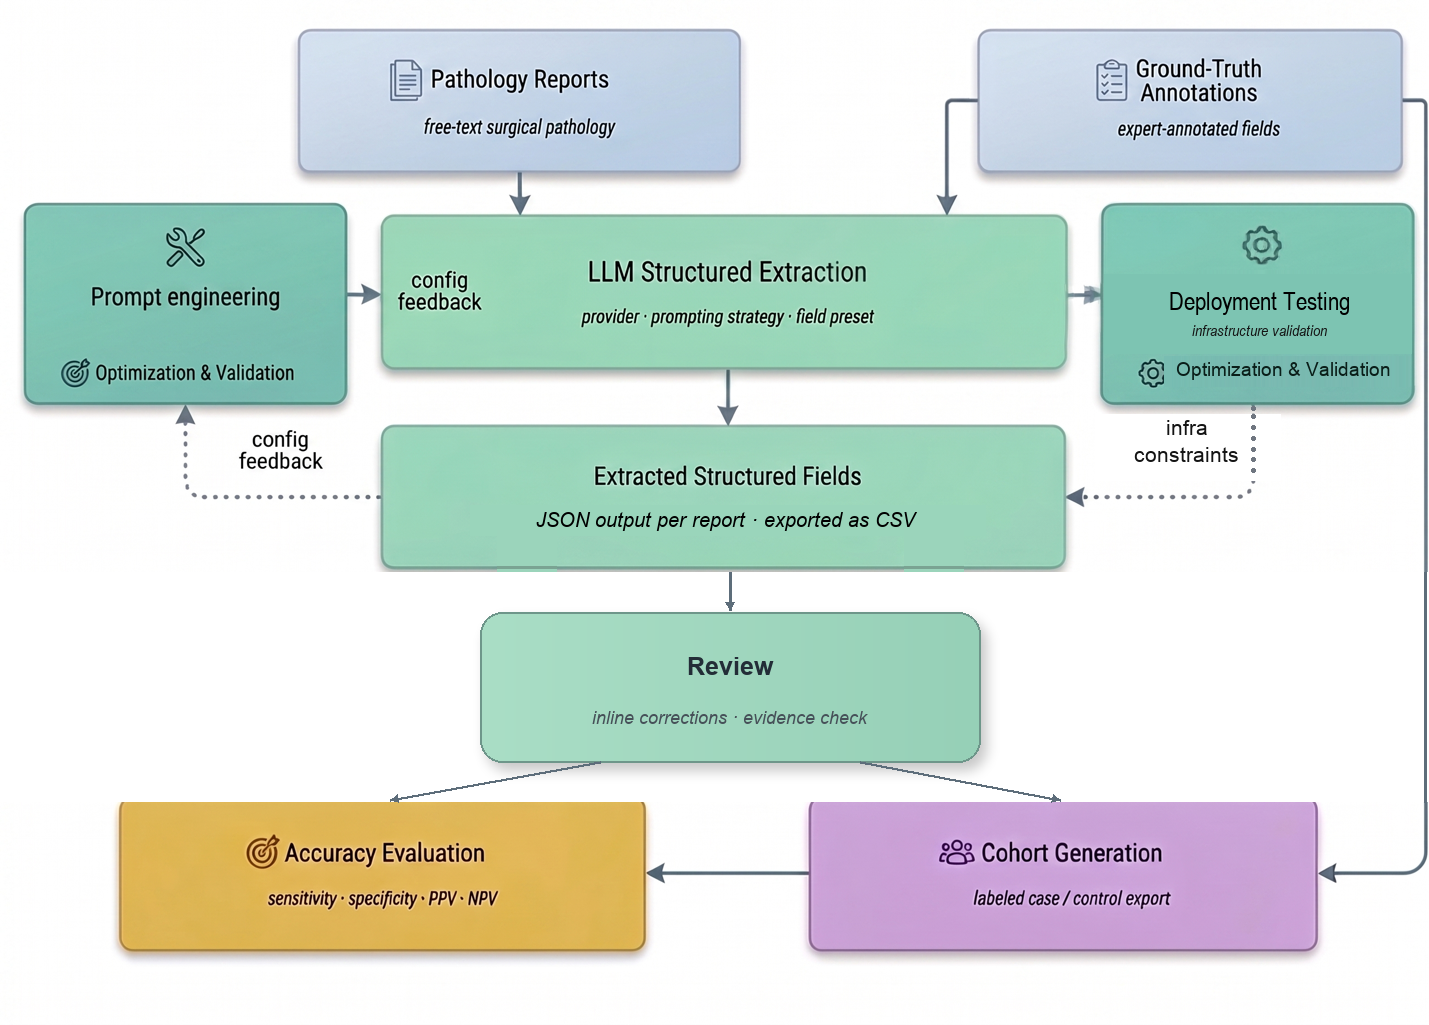
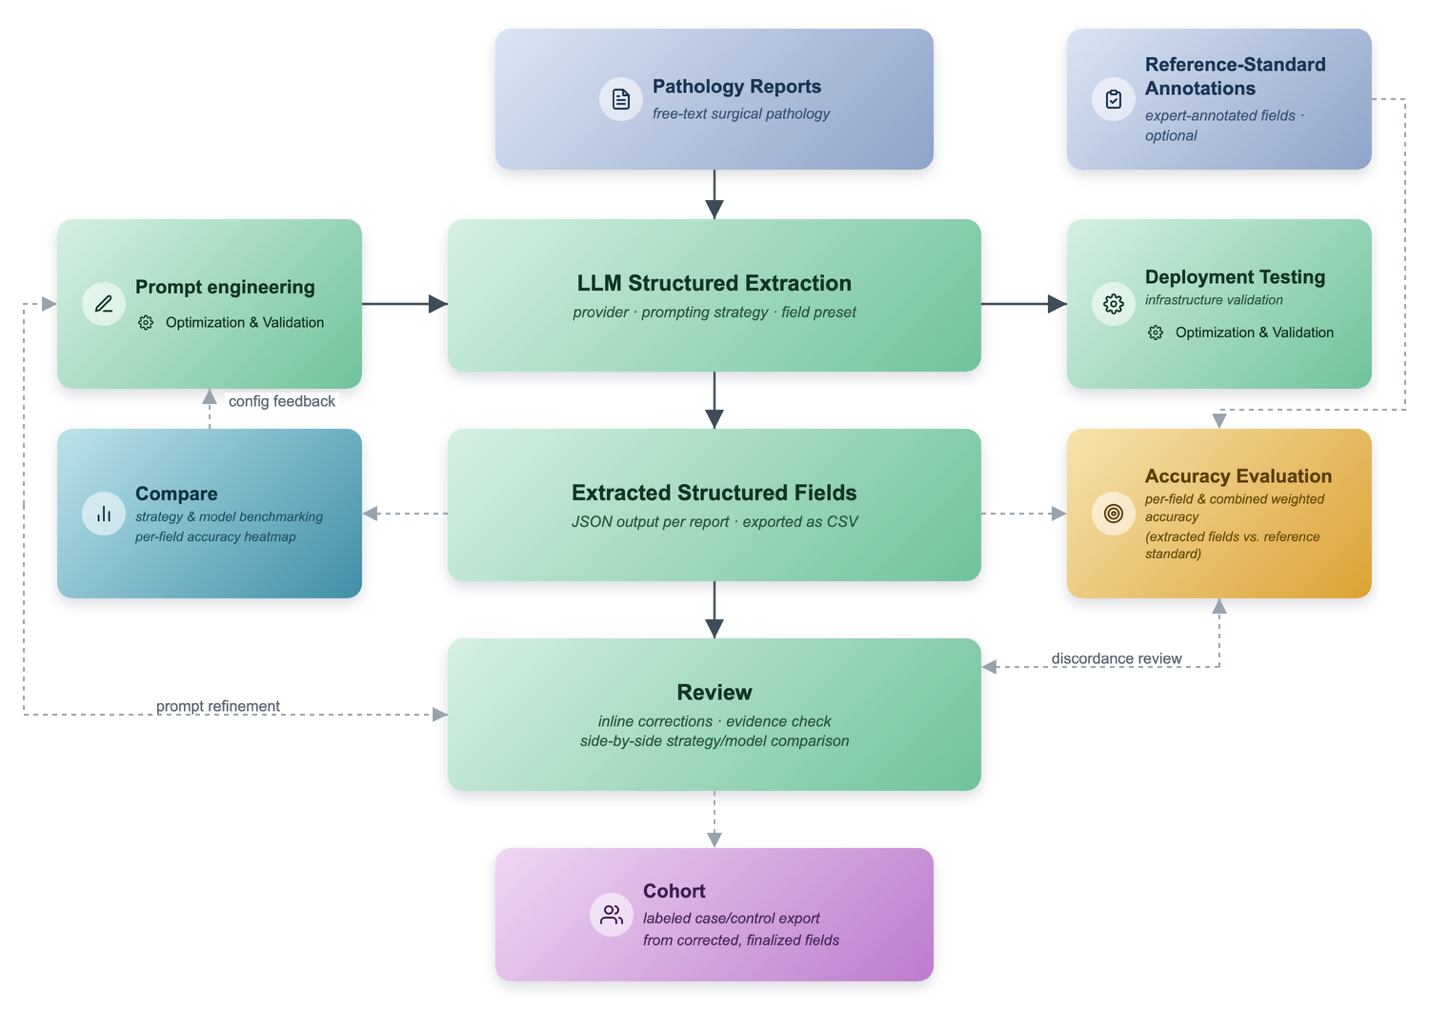
Update README figures 1 and 2 to match the current manuscript
- Figure 1: current analysis flow (Compare box, reference-standard label,
  discordance-review and prompt-refinement loops, Cohort from finalized fields).
- Figure 2: panel B now shows the three-run liver model comparison as mean (± SD)
  with the finalized prompt, replacing the old single-run screenshot.
- Update both captions to match.

diff --git a/README.md b/README.md
@@ -4,11 +4,11 @@
 
 🔗 **Try it live:** [pathex-app.streamlit.app](https://pathex-app.streamlit.app/)
 
-![PathEx analysis flow — pathology reports and reference standard go in, LLM structured extraction runs behind a choice of prompting strategy, extracted fields go through Review, and results feed accuracy evaluation and cohort generation](docs_figure1.png)
-*PathEx analysis flow: reports and reference standard in, LLM extraction with your choice of strategy, extracted fields go through Review for inline correction and evidence checking, then out as accuracy metrics (including sensitivity, specificity, PPV, and NPV) and a labeled cohort export.*
+![PathEx analysis flow — pathology reports go through LLM structured extraction (provider, prompting strategy, field preset); extracted fields feed Compare, Accuracy Evaluation against optional reference-standard annotations, and Review, with feedback loops to prompt engineering, and finalized fields feed Cohort export](docs_figure1.png)
+*PathEx analysis flow: reports go through LLM extraction with your choice of provider, prompting strategy, and field preset. Extracted fields can be benchmarked across strategies and models (Compare), scored against an optional reference standard (Accuracy Evaluation, including sensitivity, specificity, PPV, and NPV), and checked case by case (Review: inline correction, evidence check, side-by-side comparison). Feedback loops send findings back to prompt engineering, and discordant cases from Accuracy Evaluation go to Review. Corrected, finalized fields can be exported as a labeled case/control cohort.*
 
-![Compare tab screenshots — accuracy heatmaps comparing four prompting strategies (A) and three LLM providers (B) across extracted fields](docs_figure2.png)
-*Compare tab: per-field accuracy heatmaps across prompting strategies (A) and across LLM providers (B).*
+![Per-field accuracy heatmaps comparing four prompting strategies on 340 PRAD prostate cancer cases (A) and three LLMs on 49 TCGA-242 liver reports (B)](docs_figure2.png)
+*Strategy and model comparison: per-field accuracy across four prompting strategies with GPT-4o-mini on 340 PRAD cases, from a single Compare-tab run (A), and across GPT-5, Claude Opus 5, and Gemini 2.5 Pro on 49 TCGA-242 liver reports, shown as mean (± SD) over three runs (B).*
 
 ![Review-assistance process diagram — an extracted field's value goes through Explain this case, which returns an explanation and a candidate quote; if that quote is found verbatim in the report a locate button highlights it, otherwise the field is flagged for closer manual reading](docs_figure3.png)
 *Review-assistance process: "Explain this case" returns an explanation and a candidate quote for each field. When that quote can be located in the report text, a locate button highlights the exact span; when it can't (typical for UNSUPPORTED fields or values reached by inference), no button is shown and the field is left for closer manual review.*
